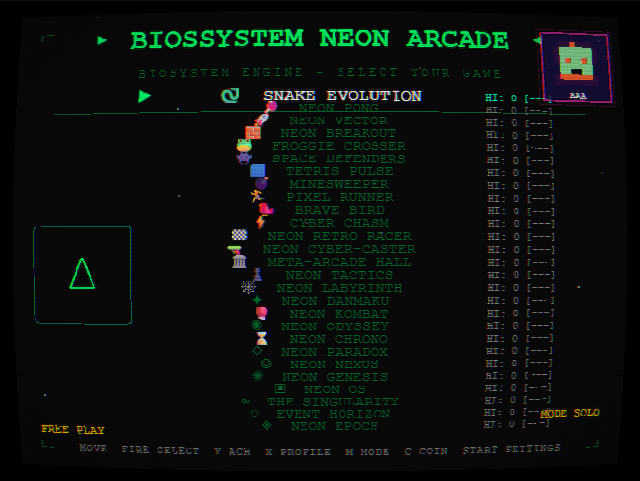
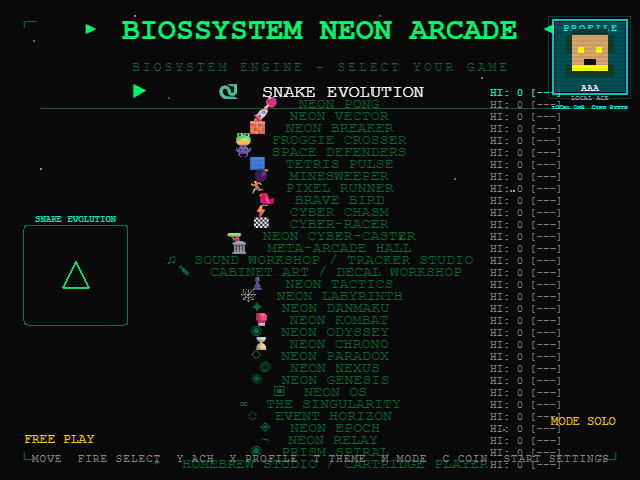
Refresh README gallery for v2.5 milestone (#37)

diff --git a/README.md b/README.md
@@ -1,6 +1,6 @@
 # BiosSystem Neon Arcade
 
-> A procedural retro-futurist arcade platform with 28 original games, a generated Meta-Arcade Hall, and no bundled ROMs or copied game assets.
+> A procedural retro-futurist arcade platform with 28 original games, four creative and system experiences, a generated Meta-Arcade Hall, and no bundled ROMs or copied game assets.
 
 [![Build](https://github.com/BiosSystem/retro-game-replicas/actions/workflows/release_and_packages.yml/badge.svg)](https://github.com/BiosSystem/retro-game-replicas/actions/workflows/release_and_packages.yml)
 [![Release](https://img.shields.io/github/v/release/BiosSystem/retro-game-replicas?color=00ff72)](https://github.com/BiosSystem/retro-game-replicas/releases)
@@ -10,26 +10,35 @@
 
 ## Live game gallery
 
-Capture every image below directly from the current production build. Show procedural runtime graphics only, with no mockups, imported ROM art, or third-party game assets.
+Every image below is captured directly from the current production build. The gallery shows real procedural runtime graphics from the redesigned cabinet, with no mockups, imported ROM art, or third-party game assets.
 
 <p align="center">
-  <img src="docs/images/screenshots/lobby.png" alt="BiosSystem Neon Arcade lobby with the 2026 Overdrive presentation enabled" width="800">
+  <img src="docs/images/screenshots/lobby.png" alt="Current 32-entry BiosSystem Neon Arcade lobby rendered by the redesigned cabinet" width="800">
 </p>
-<p align="center"><sub>Browse the complete 32-entry cabinet catalog from the live BiosSystem Neon Arcade lobby.</sub></p>
+<p align="center"><sub>The current lobby presents all 28 games and four hub, studio, and cartridge experiences.</sub></p>
 
 <table>
   <tr>
+    <td width="50%" align="center"><img src="docs/images/screenshots/neon-invader.png" alt="Neon Invader reference cartridge running inside the sandboxed Cartridge Player"><br><sub>Neon Invader - sandboxed v2.5 reference cartridge</sub></td>
+    <td width="50%" align="center"><img src="docs/images/screenshots/neon-relay.png" alt="Neon Relay running its procedural defense wave"><br><sub>Neon Relay - procedural co-op defense</sub></td>
+  </tr>
+  <tr>
+    <td width="50%" align="center"><img src="docs/images/screenshots/prism-spiral.png" alt="Prism Spiral rendering a live procedural wisp wave"><br><sub>Prism Spiral - radial survival combat</sub></td>
     <td width="50%" align="center"><img src="docs/images/screenshots/neon-vector.png" alt="Neon Vector running with Overdrive glow, scanlines, and procedural asteroid combat"><br><sub>Neon Vector - Overdrive vector combat</sub></td>
-    <td width="50%" align="center"><img src="docs/images/screenshots/tetris-pulse.png" alt="Tetris Pulse with crisp pixel blocks in the Overdrive CRT presentation"><br><sub>Tetris Pulse - crisp grid play</sub></td>
   </tr>
   <tr>
     <td width="50%" align="center"><img src="docs/images/screenshots/neon-cyber-caster.png" alt="Neon Cyber-Caster generated DDA dungeon under the Overdrive display pipeline"><br><sub>Neon Cyber-Caster - generated DDA dungeon</sub></td>
     <td width="50%" align="center"><img src="docs/images/screenshots/neon-danmaku.png" alt="Neon Danmaku with dense pooled projectiles and Overdrive glow"><br><sub>Neon Danmaku - projectile pattern combat</sub></td>
   </tr>
   <tr>
-    <td colspan="2" align="center"><img src="docs/images/screenshots/neon-epoch.png" alt="Neon Epoch procedural world rendered through the 2026 Overdrive pipeline" width="640"><br><sub>Neon Epoch - procedural world and Overdrive lighting</sub></td>
+    <td width="50%" align="center"><img src="docs/images/screenshots/tetris-pulse.png" alt="Tetris Pulse with crisp pixel blocks in the Overdrive CRT presentation"><br><sub>Tetris Pulse - crisp grid play</sub></td>
+    <td width="50%" align="center"><img src="docs/images/screenshots/neon-epoch.png" alt="Neon Epoch procedural world rendered through the 2026 Overdrive pipeline"><br><sub>Neon Epoch - procedural world and Overdrive lighting</sub></td>
   </tr>
 </table>
+
+## Current milestone
+
+Milestone 1 of v2.5 adds a deterministic 32-bit stack bytecode VM, a 100,000-instruction frame quota, the validated .neongame binary format, an explicit host bridge, and the lazy-loaded Homebrew Cartridge Player. The bundled *Neon Invader* cartridge demonstrates sanitized vector drawing, generated synth audio, input, bounded heap state, and runtime recovery without exposing the DOM or Phaser scene internals.
 
 ## Quick start
 
@@ -79,13 +88,15 @@ npm run tauri build
 
 ## Games
 
+The 32-entry cabinet catalog contains 28 playable games and four hub, workshop, or runtime experiences.
+
 **Classic cabinet replicas:** Snake Evolution, Neon Pong, Neon Vector, Neon Breaker, Froggie Crosser, Space Defenders, Tetris Pulse, Minesweeper, Pixel Runner, Brave Bird, and Cyber Chasm.
 
 **Modern arcade games:** Cyber-Racer, Neon Cyber-Caster, Neon Tactics, Neon Labyrinth, Neon Danmaku, Neon Kombat, Neon Relay, and Prism Spiral.
 
 **Procedural Neon worlds:** Neon Odyssey, Neon Chrono, Neon Paradox, Neon Nexus, Neon Genesis, Neon OS, The Singularity, Event Horizon, and Neon Epoch.
 
-**Hub and studio:** Meta-Arcade Hall generates a walkable DDA-rendered cabinet space with spatial audio and optional connected-peer presence. Sound Workshop / Tracker Studio creates, previews, saves, imports, exports, and assigns four-channel `.neonseq` music to the cabinet audio manager.
+**Hub, studios, and homebrew:** Meta-Arcade Hall generates a walkable DDA-rendered cabinet space with spatial audio and optional connected-peer presence. Sound Workshop / Tracker Studio creates and assigns four-channel `.neonseq` music. Cabinet Art / Decal Workshop creates validated vector cabinet skins. Homebrew Studio / Cartridge Player runs sandboxed `.neongame` cartridges and includes the generated *Neon Invader* reference game.
 
 ## Chiptune Tracker Studio
 
@@ -127,7 +138,7 @@ The production build keeps the Tracker Studio, visualizer, and cartridge player 
 
 ## Verification status
 
-The v2.1.0 release passed TypeScript analysis, 295 Vitest checks across 102 files, 58 Chromium gameplay and visual regressions, six Firefox and WebKit smoke checks, the production bundle budget, hardened container validation, and the locked Tauri test profile. The v2.2.0 release passed 302 Vitest checks across 104 files, TypeScript analysis, the production bundle baseline, hosted browser coverage, hardened container validation, locked Cargo checks, and cross-platform desktop packaging. The active v2.3 branch passes 308 Vitest checks across 107 files, TypeScript analysis, locked Cargo tests, and a 1,885,438-byte production baseline. Follow the live [GitHub Actions workflow](https://github.com/BiosSystem/retro-game-replicas/actions/workflows/release_and_packages.yml) for the protected-branch result.
+The v2.5 Milestone 1 master build passes TypeScript analysis, 360 Vitest checks across 130 files, the Cartridge Player Playwright regression, locked Cargo tests, and a 1,943,323-byte production baseline. Pull request validation also passed the complete Chromium regression suite, Firefox and WebKit smoke tests, hardened container checks, and Tauri source validation before merge. Follow the live [GitHub Actions workflow](https://github.com/BiosSystem/retro-game-replicas/actions/workflows/release_and_packages.yml) for the protected-branch result.
 
 ## Fun Zone container hosting
 
